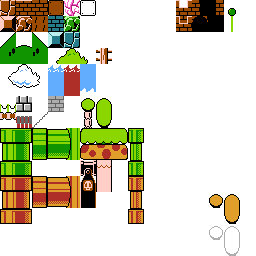
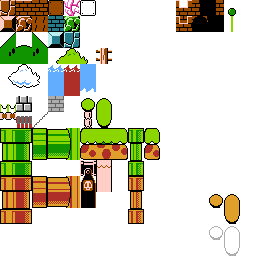
Add islands to editor.

Changed region(s): [[0.5625, 0.5, 0.625, 0.625]]

diff --git a/src/editor.cpp b/src/editor.cpp
@@ -20,6 +20,7 @@ public:
         
         position = sp::Vector2i(5, 1);
         setPosition(sp::Vector2d(position) + sp::Vector2d(0.5, 0.5));
+        active = false;
     }
     
     void onFixedUpdate() override
@@ -30,6 +31,7 @@ public:
         if (controller.up.getDown() && position.y < editor.level_data->height - 1) position.y++;
         if (controller.left.get() || controller.right.get() || controller.down.get() || controller.up.get())
         {
+            active = true;
             if (repeat_delay > 0)
             {
                 repeat_delay--;
@@ -73,17 +75,20 @@ public:
             return;
         }
         
-        setPosition(sp::Vector2d(position) + sp::Vector2d(0.5, 0.5));
-        
-        sp::P<sp::Camera> camera = getScene()->getCamera();
-        sp::Vector2d camera_position = camera->getPosition2D();
-        if (camera_position.x < position.x - 6)
-            camera_position.x += 0.1;
-        if (camera_position.x > position.x + 6)
-            camera_position.x -= 0.1;
-        camera_position.x = std::min(camera_position.x, editor.level_data->width - 8.0);
-        camera_position.x = std::max(camera_position.x, 8.0);
-        camera->setPosition(camera_position);
+        if (active)
+        {
+            setPosition(sp::Vector2d(position) + sp::Vector2d(0.5, 0.5));
+            
+            sp::P<sp::Camera> camera = getScene()->getCamera();
+            sp::Vector2d camera_position = camera->getPosition2D();
+            if (camera_position.x < position.x - 6)
+                camera_position.x += 0.1;
+            if (camera_position.x > position.x + 6)
+                camera_position.x -= 0.1;
+            camera_position.x = std::min(camera_position.x, editor.level_data->width - 8.0);
+            camera_position.x = std::max(camera_position.x, 8.0);
+            camera->setPosition(camera_position);
+        }
     }
     
     void updateTileGfx()
@@ -100,6 +105,9 @@ public:
         case LevelData::Tile::Type::Pipe: setGfx("tiles.png", 136); break;
         case LevelData::Tile::Type::PipeRed: setGfx("tiles.png", 184); break;
         case LevelData::Tile::Type::Trampoline: setGfx("editor_overlay_tiles.png", 18); break;
+        case LevelData::Tile::Type::Island: setGfx("tiles.png", 137); break;
+        case LevelData::Tile::Type::MushroomIsland: setGfx("tiles.png", 137 + 16); break;
+
         case LevelData::Tile::Type::BullitTower: setGfx("tiles.png", 165); break;
         case LevelData::Tile::Type::FirebarLeft: setGfx("editor_overlay_tiles.png", 43); break;
         case LevelData::Tile::Type::FirebarRight: setGfx("editor_overlay_tiles.png", 44); break;
@@ -135,6 +143,7 @@ public:
     InputController& controller;
     EditorScene& editor;
     int repeat_delay;
+    bool active;
     
     LevelData::Tile::Type tile_type = LevelData::Tile::Type::Brick;
 };
@@ -155,7 +164,16 @@ int LevelData::getTileIndex(int x, int y)
         return -1;
     switch(tiles[x][y].type)
     {
-    case LevelData::Tile::Type::Open: break;
+    case LevelData::Tile::Type::Open:
+        for(int n=y+1; n<height; n++)
+        {
+            if (tiles[x][n].type == LevelData::Tile::Type::Island)
+            {
+                if (x > 0 && x < width - 1 && tiles[x - 1][n].type == LevelData::Tile::Type::Island && tiles[x + 1][n].type == LevelData::Tile::Type::Island)
+                    return 18;
+            }
+        }
+        break;
     case LevelData::Tile::Type::Brick: return 1;
     case LevelData::Tile::Type::Ground: return 0;
     case LevelData::Tile::Type::Block: return 16;
@@ -183,6 +201,23 @@ int LevelData::getTileIndex(int x, int y)
                 tile += 48;
             return tile;
         }
+    case LevelData::Tile::Type::Island:
+        if (isTileSolid(x - 1, y) && isTileSolid(x + 1, y))
+            return 134;
+        if (isTileSolid(x - 1, y))
+            return 135;
+        if (isTileSolid(x + 1, y))
+            return 133;
+        return 137;
+    case LevelData::Tile::Type::MushroomIsland:
+        if (isTileSolid(x - 1, y) && isTileSolid(x + 1, y))
+            return 134 + 16;
+        if (isTileSolid(x - 1, y))
+            return 135 + 16;
+        if (isTileSolid(x + 1, y))
+            return 133 + 16;
+        return 137 + 16;
+
     case LevelData::Tile::Type::Trampoline: break;
     case LevelData::Tile::Type::BullitTower:
         if (y < height - 1 && tiles[x][y+1].type == LevelData::Tile::Type::BullitTower)
@@ -229,6 +264,8 @@ bool LevelData::isTileSolid(int x, int y)
             
     case LevelData::Tile::Type::Pipe: return true;
     case LevelData::Tile::Type::PipeRed: return true;
+    case LevelData::Tile::Type::Island: return true;
+    case LevelData::Tile::Type::MushroomIsland: return true;
     case LevelData::Tile::Type::Trampoline: return false;
     case LevelData::Tile::Type::BullitTower: return true;
     case LevelData::Tile::Type::FirebarLeft: return true;
@@ -296,11 +333,12 @@ void EditorScene::setTile(int x, int y, LevelData::Tile::Type type)
     if (type == LevelData::Tile::Type::QuestionBlock)
         level_data->tiles[x][y].contents = LevelData::Tile::Contents::Coin;
     
-    updateTilemap(x, y);
-    if (x > 0) updateTilemap(x - 1, y);
-    if (x < level_data->width - 1) updateTilemap(x + 1, y);
-    if (y > 0) updateTilemap(x, y - 1);
-    if (y < level_data->height - 1) updateTilemap(x, y + 1);
+    
+    for(int n=std::max(0, x-1);n<x+2 && n<level_data->width; n++)
+    {
+        for(int m=0;m<level_data->height; m++)
+            updateTilemap(n, m);
+    }
 }
 
 void EditorScene::adjustTile(int x, int y)
@@ -338,6 +376,8 @@ void EditorScene::updateTilemap(int x, int y)
             
     case LevelData::Tile::Type::Pipe: break;
     case LevelData::Tile::Type::PipeRed: break;
+    case LevelData::Tile::Type::Island: break;
+    case LevelData::Tile::Type::MushroomIsland: break;
     case LevelData::Tile::Type::Trampoline: overlay_tilemap->setTile(x, y, 18); break;
     case LevelData::Tile::Type::BullitTower: break;
     case LevelData::Tile::Type::FirebarLeft: overlay_tilemap->setTile(x, y, 43); break;

diff --git a/src/main.cpp b/src/main.cpp
@@ -318,6 +318,8 @@ public:
                 case LevelData::Tile::Type::QuestionBlock: break;
                 case LevelData::Tile::Type::Pipe: break;
                 case LevelData::Tile::Type::PipeRed: break;
+                case LevelData::Tile::Type::Island: break;
+                case LevelData::Tile::Type::MushroomIsland: break;
                 case LevelData::Tile::Type::Trampoline: (new Trampoline(getRoot()))->setPosition(sp::Vector2d(x + 0.5, y + 1.0)); break;
                 case LevelData::Tile::Type::BullitTower: break;
                 case LevelData::Tile::Type::FirebarLeft: (new FireBar(getRoot(), FireBar::Type::Left))->setPosition(sp::Vector2d(x + 0.5, y + 0.5)); break;

diff --git a/src/editor.h b/src/editor.h
@@ -21,6 +21,9 @@ public:
             
             Pipe,
             PipeRed,
+            Island,
+            MushroomIsland,
+            
             Trampoline,
             BullitTower,
             FirebarLeft,
